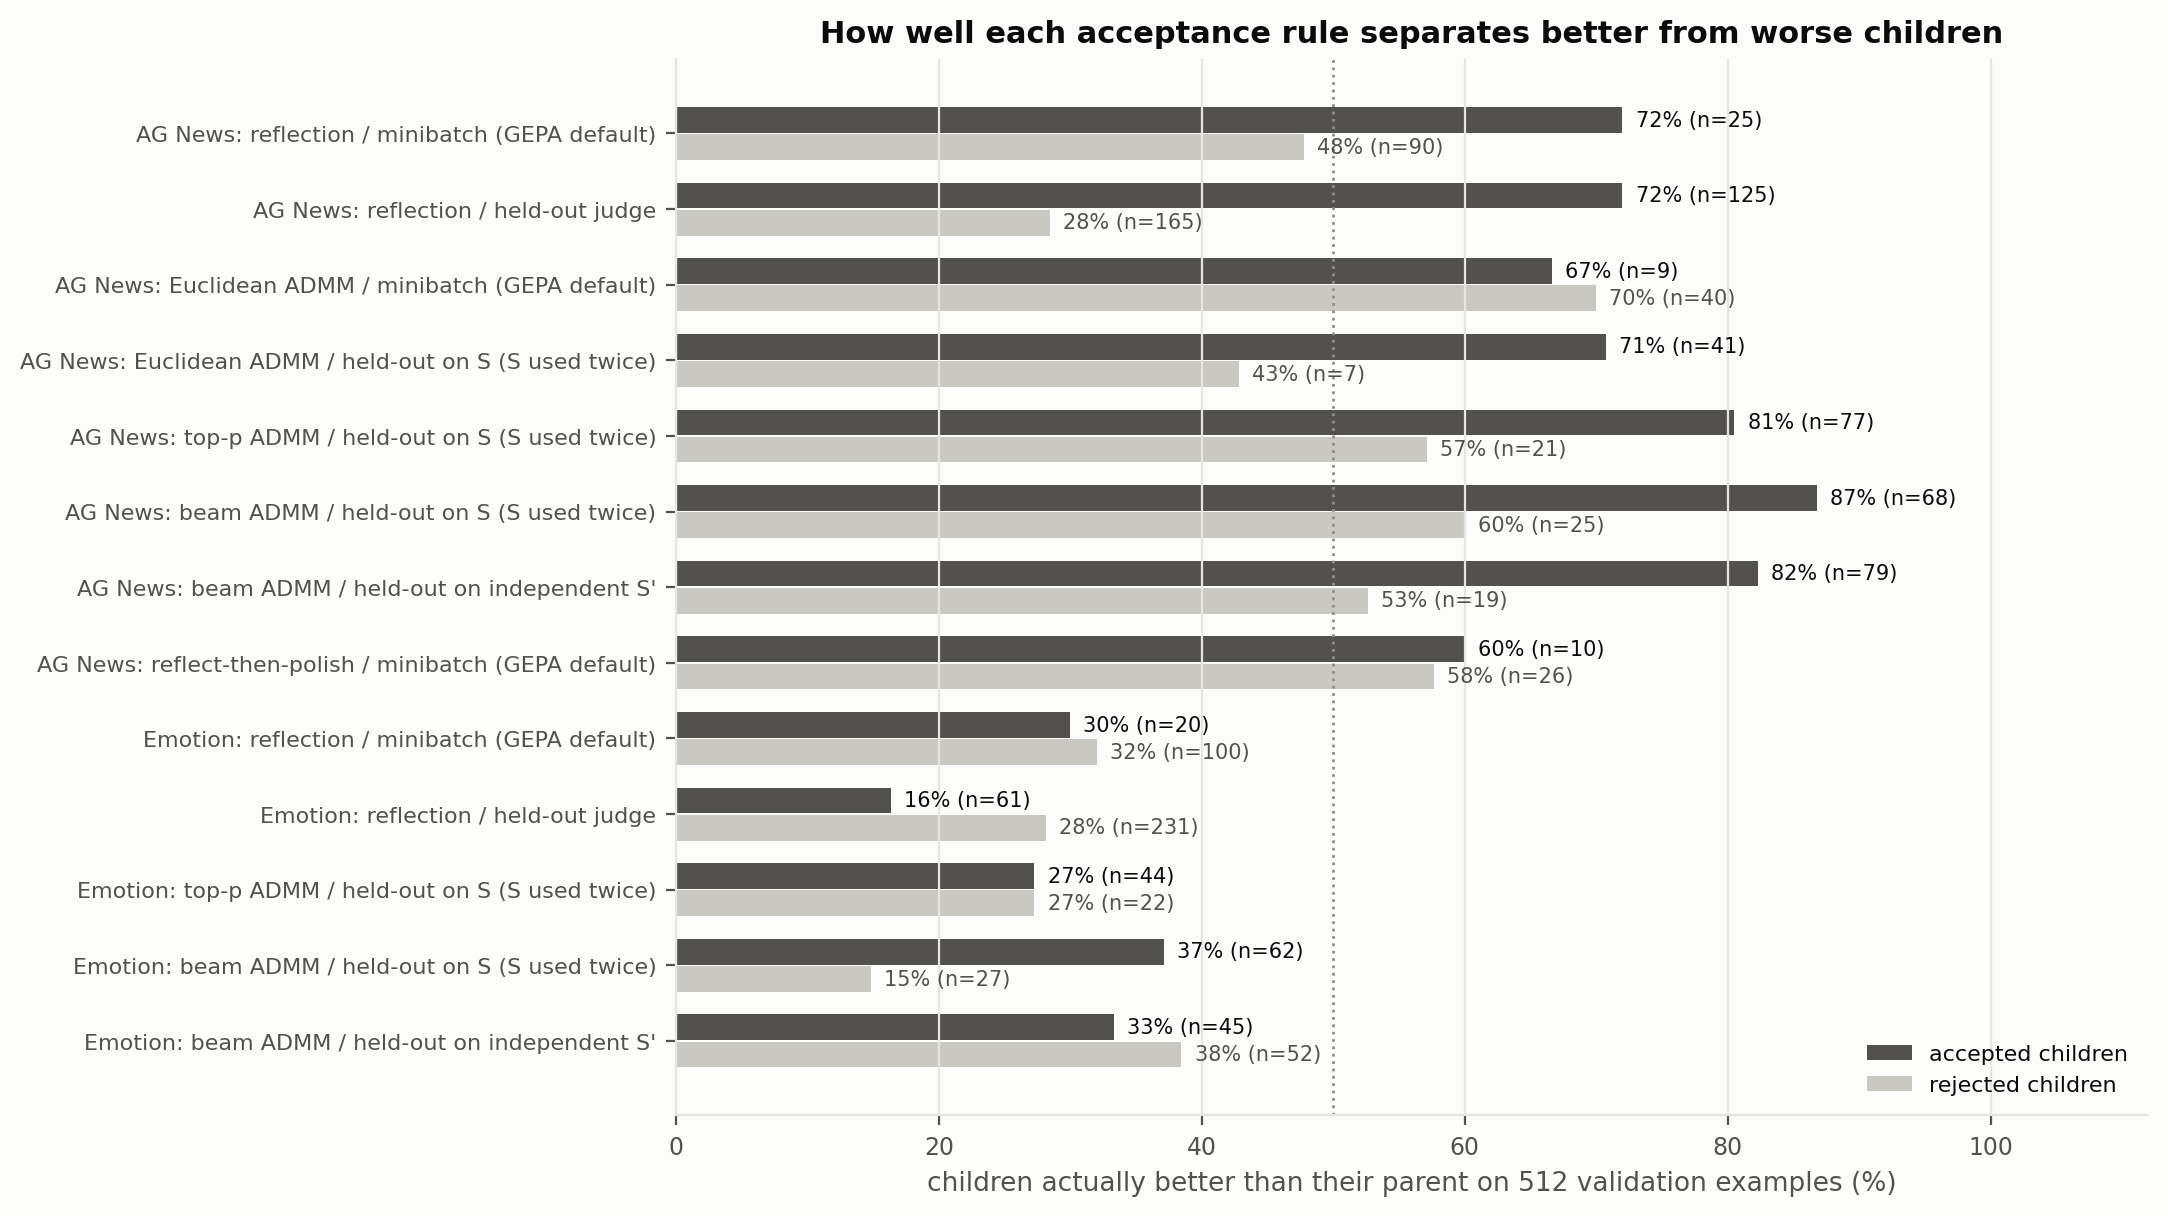
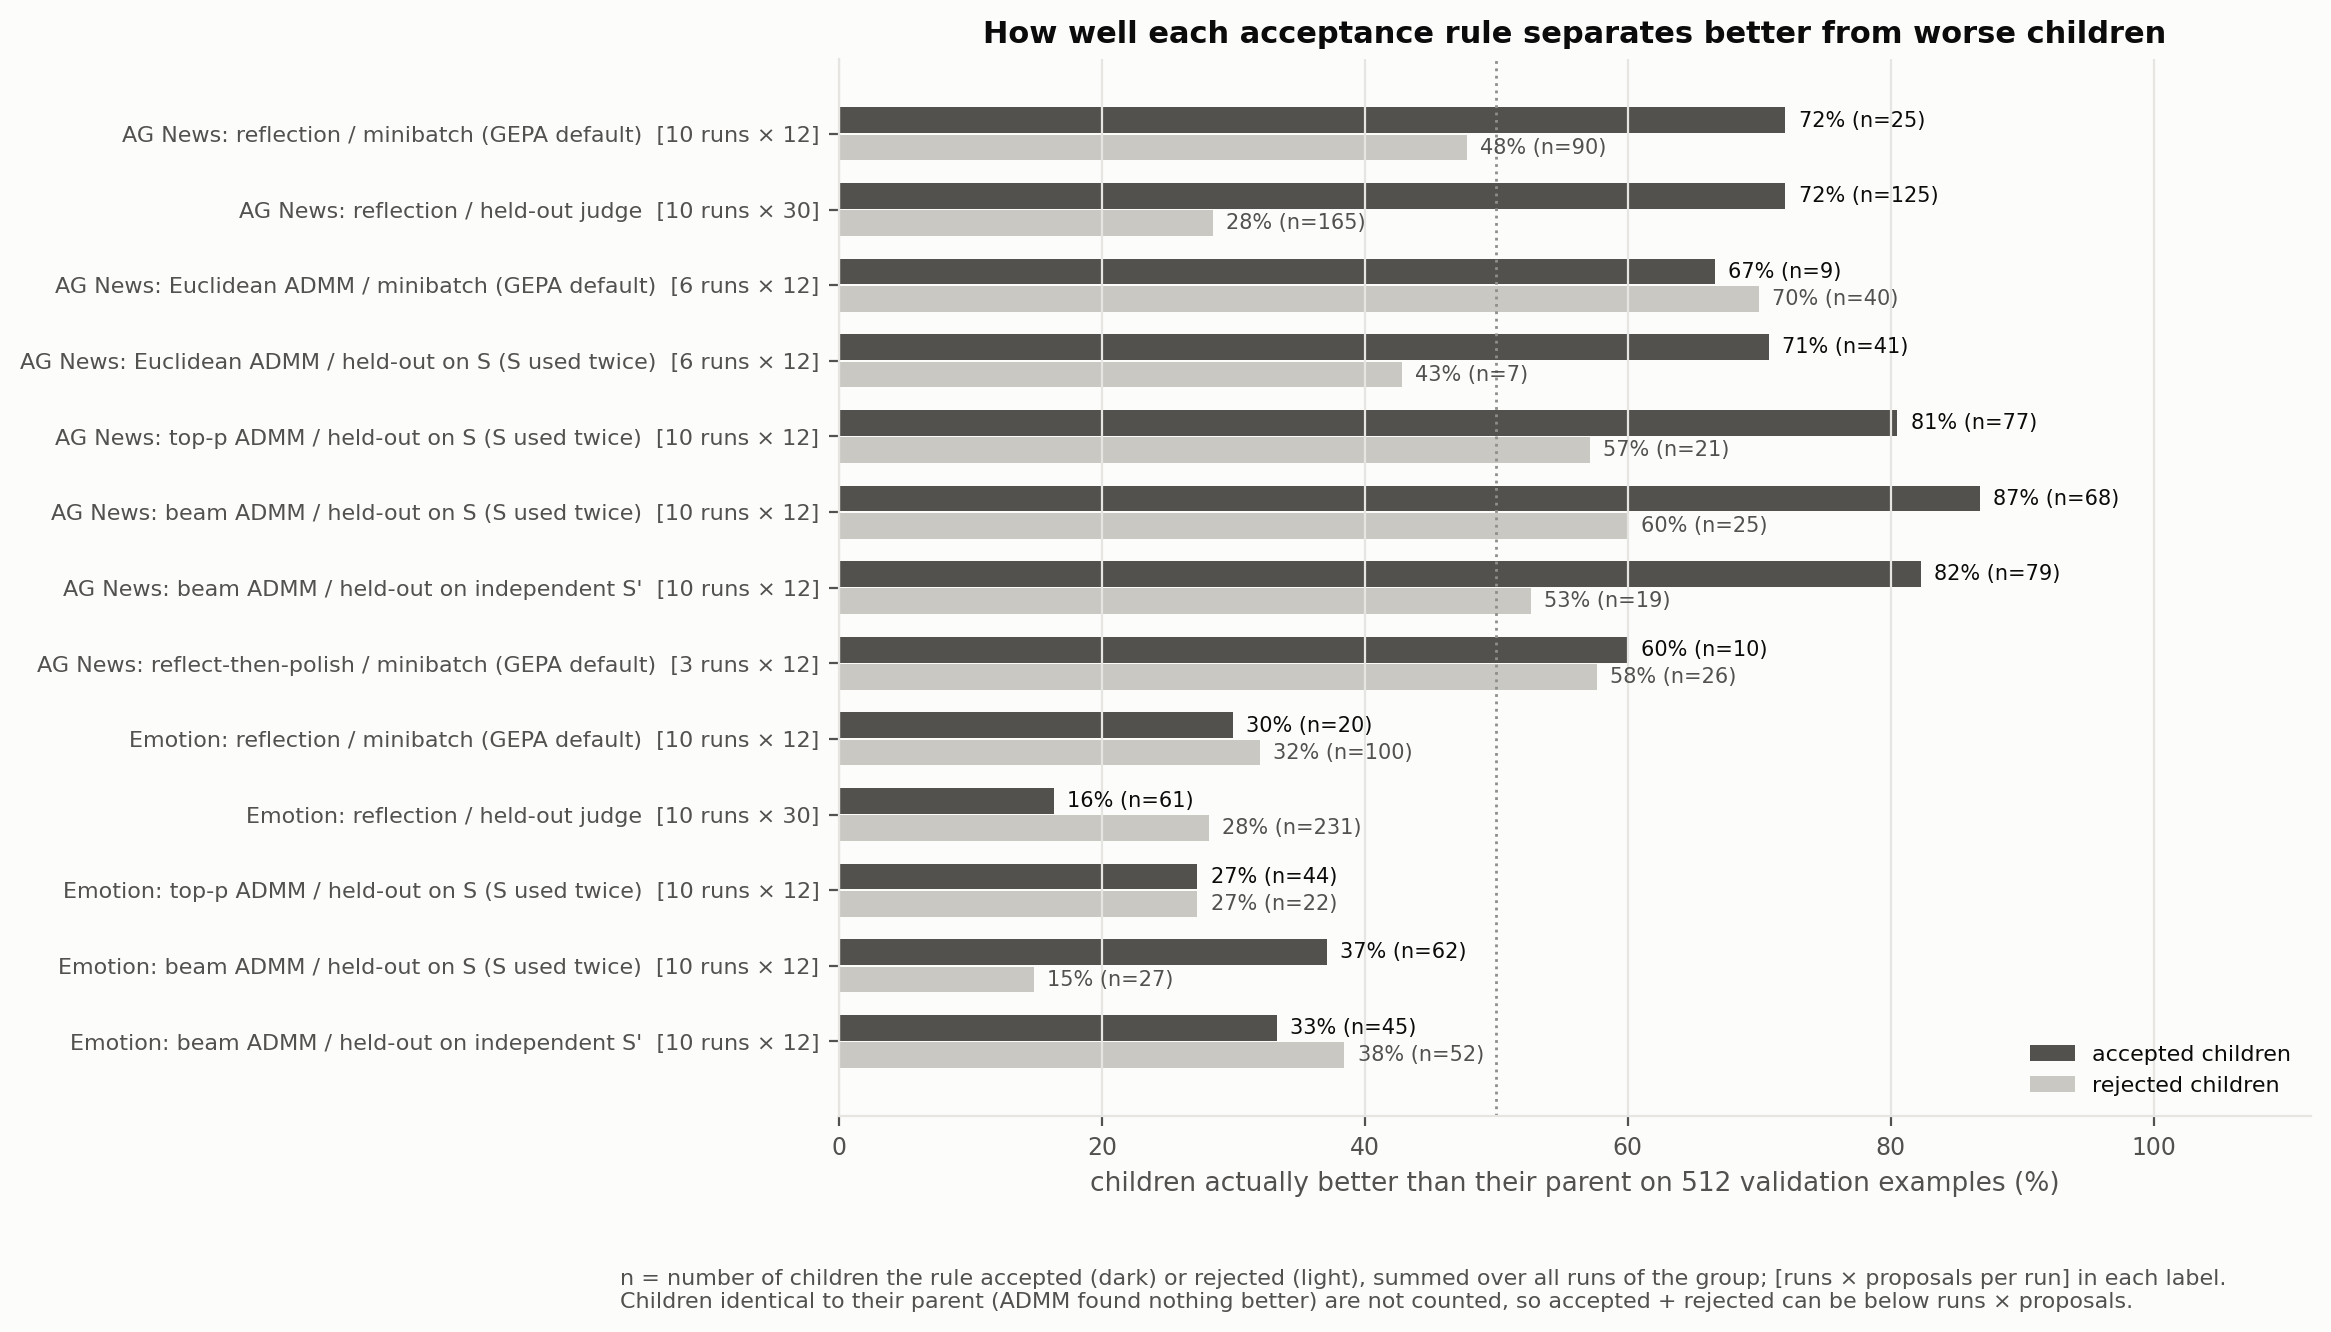
Results log: explain figure 10's n (group sizes, unchanged proposals, rule) and why ADMM can propose its parent unchanged (outcome counts); fig 10 labels show runs x proposals

Changed region(s): [[0.0, 0.0, 0.9889, 0.9062], [0.2781, 0.9375, 0.958, 1.0], [0.8962, 0.3438, 0.9271, 0.375]]

diff --git a/src/gepa_pilot/proposal_diagnostics.py b/src/gepa_pilot/proposal_diagnostics.py
@@ -164,7 +164,11 @@ def figures(rows: list[dict], summary: dict) -> None:
 
     # Figure 10: acceptance reliability.
     items = [(k, v) for k, v in summary["acceptance"].items() if v["accepted"] and v["rejected"]]
-    labels = [k.replace("agnews / ", "AG News: ").replace("emotion / ", "Emotion: ") for k, _ in items]
+    size = {f"{t} / {p} / {r}": (len(runs), sum(len(json.loads(Path(run, "gepa_result.json").read_text(encoding="utf-8"))
+                                                    ["candidate_table"]) for run in runs) // len(runs))
+            for t, p, r, runs in GROUPS}
+    labels = [k.replace("agnews / ", "AG News: ").replace("emotion / ", "Emotion: ")
+              + f"  [{size[k][0]} runs × {size[k][1]}]" for k, _ in items]
     fig, ax = plt.subplots(figsize=(9.5, 0.42 * len(items) + 1.4))
     ys = list(range(len(items)))[::-1]
     acc = [100 * v["share_accepted_better"] for _, v in items]
@@ -178,6 +182,9 @@ def figures(rows: list[dict], summary: dict) -> None:
     ax.set_yticks(ys, labels, fontsize=8)
     ax.set_xlim(0, 112)
     ax.set_xlabel("children actually better than their parent on 512 validation examples (%)")
+    fig.text(0.01, -0.03, "n = number of children the rule accepted (dark) or rejected (light), summed over all runs of the "
+             "group; [runs × proposals per run] in each label.\nChildren identical to their parent (ADMM found nothing "
+             "better) are not counted, so accepted + rejected can be below runs × proposals.", fontsize=8, color=TEXT_2)
     ax.set_title("How well each acceptance rule separates better from worse children", fontsize=11)
     ax.legend(loc="lower right", fontsize=8)
     ax.grid(axis="y", visible=False)

diff --git a/RESULTS_10_16.md b/RESULTS_10_16.md
@@ -167,6 +167,37 @@ parent, out of 512 validation examples):
 | Emotion | I | **99%** | −1.7 | 54 (−1.1) |
 | Emotion | H | 79% | −3.4 | 140 (−2.3) |
 
+**Why can an ADMM proposal be identical to its parent, before acceptance?**
+- **GEPA's proposer hook must return a prompt text,** so an ADMM proposal that finds nothing
+  useful returns the parent's own text. GEPA then sees a child identical to its parent, scores a
+  tie, and rejects it.
+- **Reflection almost never does this** (5 of 120 on AG News), because the LM always writes
+  something new.
+- **ADMM returns the parent in three cases** (counts below, out of all proposals):
+  - **No token changed:** in all 20 rounds the projection mapped back to the parent's own
+    tokens. The penalty ρ pulls the embeddings back toward the current tokens, and beam/top-p
+    always keep the parent's token as an option (Q4), so a weak gradient never moves a token.
+  - **No candidate beat the parent on S:** ADMM did produce new prompts, but none had lower loss
+    on S than the parent. By design the proposer then returns the parent rather than a child it
+    already expects to be worse.
+  - **No exact round trip:** the new token sequence decodes to text that re-tokenizes
+    differently, so it can't be submitted as a prompt.
+
+| Task | Arm | Proposed a new prompt | No candidate beat the parent on S | No token changed | No exact round trip |
+|---|---|---:|---:|---:|---:|
+| AG News | C | 98 / 120 | 16 | 3 | 3 |
+| AG News | I | 113 / 120 | 7 | 0 | 0 |
+| AG News | H | 240 / 360 | 94 | 18 | 8 |
+| Emotion | C | 97 / 120 | 22 | 0 | 1 |
+| Emotion | I | 119 / 120 | 1 | 0 | 0 |
+| Emotion | H | 284 / 360 | 69 | 3 | 4 |
+
+- **Mostly the S filter:** "no candidate beat the parent" is the main reason. Multi-start nearly
+  removes it, because 3 runs give 3 chances to find one.
+- **H returns the parent more often** (33% on AG News vs. 18% for C).
+  - **Hypothesis:** with 36 proposals, later parents are already well optimized, so ADMM finds
+    fewer local improvements.
+
 - **Final accuracy:**
   - AG News: I +1.13 (p = 0.30) and H +1.30 (p = 0.22) over C;
   - emotion: I +0.12, H −0.20; none significant.
@@ -406,6 +437,16 @@ Net = Δ correct answers of the child vs. its parent, of 512 validation examples
 
 *Figure 10. Share of accepted (dark) and rejected (light) children that were actually better
 (net > 0), per proposer and acceptance rule. A bigger gap means better separation.*
+- **n:** the number of children that rule accepted or rejected, summed over all runs of the
+  group. The label gives [runs × proposals per run].
+- **Why the n's differ:**
+  - **Group size:** most groups are 10 runs × 12 proposals (120). The held-out reflection groups
+    are the 30-proposal runs (300); Euclidean ADMM had 6 runs (72); the old polish had 3 runs
+    (36).
+  - **Unchanged proposals aren't counted:** when ADMM returns the parent itself (see Q1), there
+    is no child to judge. E.g. emotion top-p counts 66 of 120.
+  - **The rule itself:** the minibatch rule rejects most children (AG News reflection: 25
+    accepted vs. 90 rejected); the S′ judge accepts more.
 
 - **The minibatch rule can't see small edits:**
   - Euclidean ADMM's rejected children were *more* often better (70%) than its accepted ones
